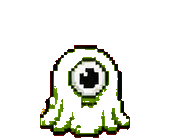
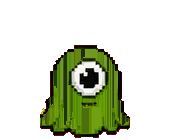
Fill slime sprite body interiors

Changed region(s): [[0.2353, 0.3429, 0.7647, 0.9714]]

diff --git a/g00dweird_chat-main/frontend/src/components/AnimSpriteAssets.test.js b/g00dweird_chat-main/frontend/src/components/AnimSpriteAssets.test.js
@@ -3,6 +3,7 @@ import path from "path";
 import zlib from "zlib";
 
 const CAT_DIR = path.resolve(process.cwd(), "public/anim/cat");
+const SLIME_DIR = path.resolve(process.cwd(), "public/anim/slime");
 
 function paeth(left, up, upLeft) {
     const p = left + up - upLeft;
@@ -68,7 +69,7 @@ function decodePngAlpha(filePath) {
     return { width, height, alpha };
 }
 
-function enclosedTransparentPinholes({ width, height, alpha }) {
+function enclosedTransparentPinholes({ width, height, alpha }, maxArea = 80) {
     const seen = Array.from({ length: height }, () => new Uint8Array(width));
     const pinholes = [];
 
@@ -94,7 +95,7 @@ function enclosedTransparentPinholes({ width, height, alpha }) {
                 });
             }
 
-            if (!touchesBorder && area <= 80) pinholes.push(area);
+            if (!touchesBorder && area <= maxArea) pinholes.push(area);
         }
     }
 
@@ -112,5 +113,17 @@ describe("animated sprite asset alpha", () => {
             .filter(Boolean);
 
         expect(badFrames).toEqual([]);
+    });
+
+    test("slime frames have opaque body interiors", () => {
+        const transparentBodyFrames = fs.readdirSync(SLIME_DIR)
+            .filter((name) => name.endsWith(".png"))
+            .map((name) => {
+                const pinholes = enclosedTransparentPinholes(decodePngAlpha(path.join(SLIME_DIR, name)), Infinity);
+                return pinholes.length ? { name, pinholes } : null;
+            })
+            .filter(Boolean);
+
+        expect(transparentBodyFrames).toEqual([]);
     });
 });

diff --git a/g00dweird_chat-main/frontend/src/components/AnimSprite.jsx b/g00dweird_chat-main/frontend/src/components/AnimSprite.jsx
@@ -18,7 +18,7 @@ import React, { useEffect, useRef } from "react";
  * STATE_ALIASES maps requested-but-missing states onto sensible existing frames.
  */
 
-export const ANIM_VERSION = 24;
+export const ANIM_VERSION = 25;
 
 // Frame counts per creature/state — mirrors slicer v3 / unified output.
 export const FRAMES = {

diff --git a/g00dweird_chat-main/scripts/fix_slime_sprite_transparency.py b/g00dweird_chat-main/scripts/fix_slime_sprite_transparency.py
@@ -1,0 +1,134 @@
+#!/usr/bin/env python3
+"""Fill enclosed transparent interiors in the animated slime sprite frames."""
+
+from __future__ import annotations
+
+from collections import deque
+from pathlib import Path
+
+from PIL import Image
+
+
+ROOT = Path(__file__).resolve().parents[1]
+SLIME_DIR = ROOT / "frontend" / "public" / "anim" / "slime"
+BODY_FILL_AREA = 80
+
+
+def is_slime_body_color(color: tuple[int, int, int, int]) -> bool:
+    r, g, b, a = color
+    if a == 0:
+        return False
+    if r > 190 and g > 190 and b > 185:
+        return False
+    return g > 45 and g >= r + 8 and g >= b + 12
+
+
+def transparent_components(alpha: Image.Image) -> list[tuple[bool, list[tuple[int, int]]]]:
+    width, height = alpha.size
+    pixels = alpha.load()
+    seen = bytearray(width * height)
+    components: list[tuple[bool, list[tuple[int, int]]]] = []
+
+    for y in range(height):
+        for x in range(width):
+            pos = y * width + x
+            if seen[pos] or pixels[x, y] != 0:
+                continue
+
+            queue = deque([(x, y)])
+            seen[pos] = 1
+            touches_border = False
+            points: list[tuple[int, int]] = []
+
+            while queue:
+                px, py = queue.popleft()
+                points.append((px, py))
+                if px == 0 or py == 0 or px == width - 1 or py == height - 1:
+                    touches_border = True
+
+                for nx, ny in ((px - 1, py), (px + 1, py), (px, py - 1), (px, py + 1)):
+                    if nx < 0 or ny < 0 or nx >= width or ny >= height:
+                        continue
+                    npos = ny * width + nx
+                    if seen[npos] or pixels[nx, ny] != 0:
+                        continue
+                    seen[npos] = 1
+                    queue.append((nx, ny))
+
+            components.append((touches_border, points))
+
+    return components
+
+
+def nearest_color(
+    image: Image.Image,
+    x: int,
+    y: int,
+    predicate,
+    fallback: tuple[int, int, int, int],
+) -> tuple[int, int, int, int]:
+    width, height = image.size
+    pixels = image.load()
+
+    for radius in range(1, 72):
+        candidates: list[tuple[int, tuple[int, int, int, int]]] = []
+        for ny in range(max(0, y - radius), min(height, y + radius + 1)):
+            for nx in range(max(0, x - radius), min(width, x + radius + 1)):
+                if abs(nx - x) != radius and abs(ny - y) != radius:
+                    continue
+                color = pixels[nx, ny]
+                if predicate(color):
+                    distance = (nx - x) * (nx - x) + (ny - y) * (ny - y)
+                    candidates.append((distance, color))
+        if candidates:
+            candidates.sort(key=lambda item: item[0])
+            return candidates[0][1]
+
+    return fallback
+
+
+def dominant_body_color(image: Image.Image) -> tuple[int, int, int, int]:
+    body_pixels = [color for color in image.getdata() if is_slime_body_color(color)]
+    if not body_pixels:
+        return (70, 220, 22, 255)
+
+    body_pixels.sort(key=lambda color: color[1], reverse=True)
+    return body_pixels[len(body_pixels) // 3]
+
+
+def fix_frame(path: Path) -> int:
+    image = Image.open(path).convert("RGBA")
+    alpha = image.getchannel("A")
+    pixels = image.load()
+    fallback_body = dominant_body_color(image)
+    fixed = 0
+
+    for touches_border, points in transparent_components(alpha):
+        if touches_border:
+            continue
+        fill_body = len(points) > BODY_FILL_AREA
+        for x, y in points:
+            if fill_body:
+                color = nearest_color(image, x, y, is_slime_body_color, fallback_body)
+            else:
+                color = nearest_color(image, x, y, lambda candidate: candidate[3] > 0, fallback_body)
+            pixels[x, y] = color
+            fixed += 1
+
+    if fixed:
+        image.save(path, optimize=True)
+    return fixed
+
+
+def main() -> None:
+    total = 0
+    for path in sorted(SLIME_DIR.glob("*.png")):
+        fixed = fix_frame(path)
+        total += fixed
+        if fixed:
+            print(f"{path.name}: filled {fixed} transparent interior pixels")
+    print(f"filled {total} slime sprite transparent interior pixels")
+
+
+if __name__ == "__main__":
+    main()
